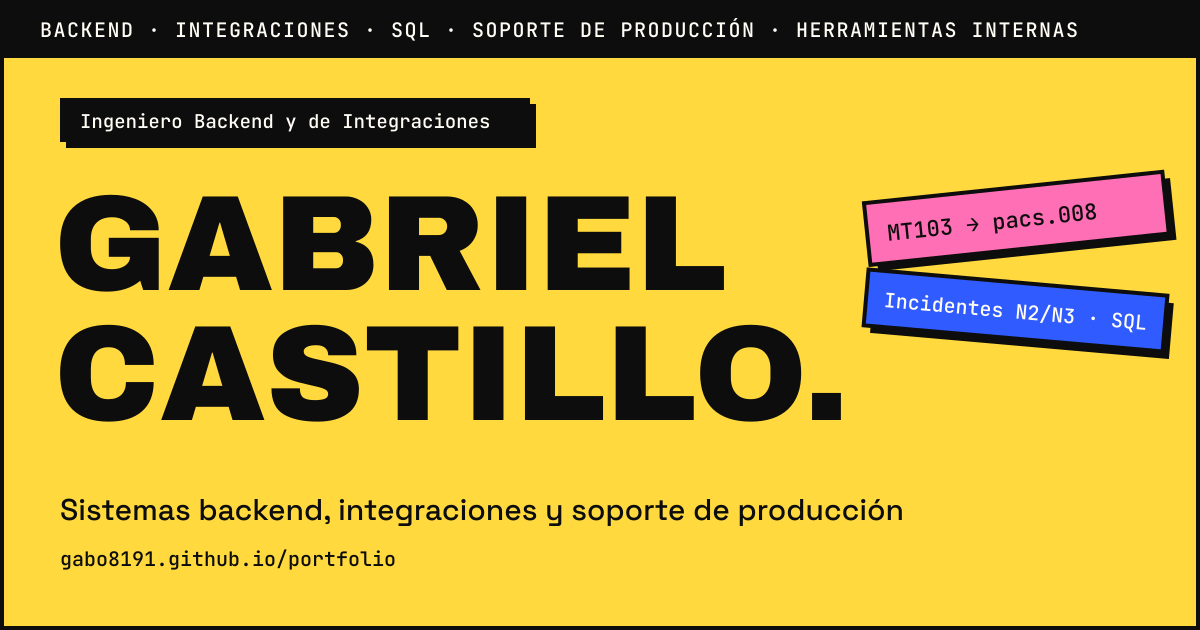
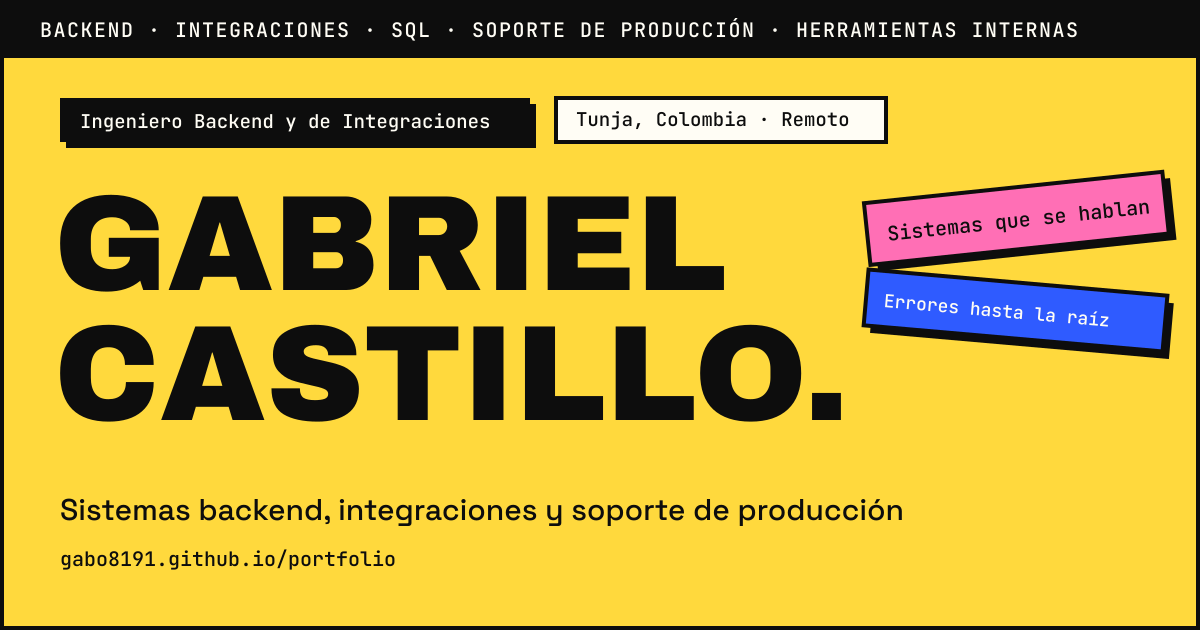
feat(og): align the OG image with the current hero and document the languages

Changed region(s): [[0.4625, 0.1508, 0.74, 0.2413], [0.74, 0.3016, 0.9558, 0.3921], [0.74, 0.4524, 0.9558, 0.5429]]

diff --git a/README.md b/README.md
@@ -25,18 +25,23 @@ npm run build
 npm run preview
 ```
 
+## Languages
+
+English is the default and lives at the site root; Spanish lives under `/es/`. Every page declares its twin with `hreflang`, the sitemap lists both, and `/es/` uses its own Open Graph image. A missing Spanish translation fails the build.
+
 ## Where to edit
 
 | Content | File |
 |---|---|
 | Employment and professional projects | `src/data/professional.ts` |
 | Personal projects | `src/data/projects.ts` |
-| About and skills | `src/pages/about.astro` |
-| Home and contact copy | `src/pages/index.astro`, `src/pages/contact.astro` |
+| UI copy in English and Spanish (all pages) | `src/i18n/ui.ts` |
+| Spanish text of projects, employers and areas | `src/i18n/content-es.ts` (keyed by the English title or slug) |
+| Page layouts (served at `/` in English and `/es/` in Spanish) | `src/pages/[...lang]/*.astro` |
 | Metadata and structured data | `src/layouts/RootLayout.astro` |
 | Visual system (tokens, components) | `src/styles/global.css`, `design.md` |
 | Hero stickers | `src/components/sticker-desk.astro` |
-| Open Graph image | `assets/og/og-image.template.svg` → `npm run og:generate` |
+| Open Graph images (English and Spanish) | `assets/og/og-image.template.svg` → `npm run og:generate` |
 | Machine-readable profile | `public/llms.txt` |
 | Downloadable general CV | `public/cv-en.pdf`, `public/cv-es.pdf` |
 
